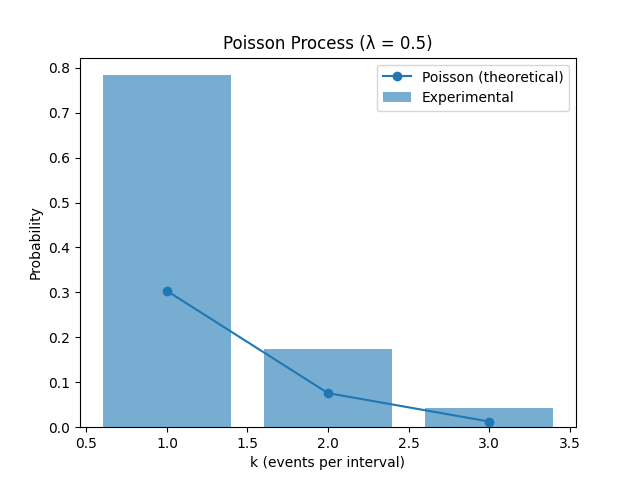
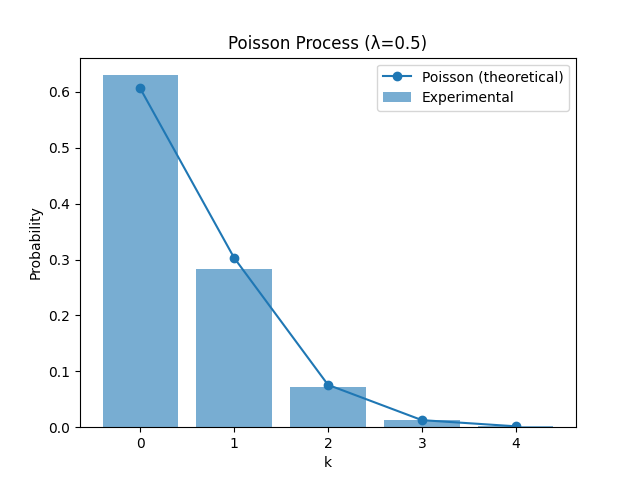
fix: Poisson_process_sim.py updates to display correctly

diff --git a/Lab1/Poisson_process_sim.py b/Lab1/Poisson_process_sim.py
@@ -8,28 +8,24 @@ import matplotlib.pyplot as plt
 
 # Funtion for counting events and build histograms out of the delta t generated in main
 def hist(arrival_times):
-    # Step 1: count events per unit interval
-    events_per_interval = {}
+    # último intervalo observado
+    max_interval = int(arrival_times[-1])
+
+    # contar eventos em TODOS os intervalos, incluindo vazios
+    events_per_interval = [0] * (max_interval + 1)
 
     for t in arrival_times:
-        interval = int(t)  # floor → which unit interval
+        interval = int(t)
+        events_per_interval[interval] += 1
 
-        if interval in events_per_interval:
-            events_per_interval[interval] += 1
-        else:
-            events_per_interval[interval] = 1
-
-    # Convert dict → list
-    counts = list(events_per_interval.values())
-
-    # Step 2: build histogram manually
+    # construir histograma manual
     histogram = {}
 
-    for k in counts:
-        if k in histogram:
-            histogram[k] += 1
+    for count in events_per_interval:
+        if count in histogram:
+            histogram[count] += 1
         else:
-            histogram[k] = 1
+            histogram[count] = 1
 
     return histogram
 
@@ -44,34 +40,29 @@ def save_histogram(histogram, lamb):
 
 # Function for plotting the Histograms generated
 def plot_histogram(histogram, lamb):
-    # Total number of intervals
     total_intervals = sum(histogram.values())
 
-    # Sort k values
-    k_values = sorted(histogram.keys())
+    k_values = range(0, max(histogram.keys()) + 1)
 
-    # Experimental probabilities
-    experimental_probs = [histogram[k] / total_intervals for k in k_values]
+    experimental_probs = [
+        histogram.get(k, 0) / total_intervals
+        for k in k_values
+    ]
 
-    # Theoretical Poisson probabilities
     theoretical_probs = [
         (lamb**k * math.exp(-lamb)) / math.factorial(k)
         for k in k_values
     ]
 
-    # Plot
-    plt.bar(k_values, experimental_probs, label="Experimental", alpha=0.6)
+    plt.bar(k_values, experimental_probs, alpha=0.6, label="Experimental")
     plt.plot(k_values, theoretical_probs, marker='o', label="Poisson (theoretical)")
 
-    plt.xlabel("k (events per interval)")
+    plt.xlabel("k")
     plt.ylabel("Probability")
-    plt.title(f"Poisson Process (λ = {lamb})")
+    plt.title(f"Poisson Process (λ={lamb})")
     plt.legend()
-
-    # unique filename
     plt.savefig(f"plots/poisson_lambda_{lamb}.png")
-
-    plt.clf()  # clear figure
+    plt.clf()
 
 def event_gen(N, lamb):
     # Listas
@@ -161,7 +152,7 @@ def main():
     os.makedirs("data", exist_ok=True)
 
     # Parâmetros
-    N = 500
+
     lambdas = [0.5, 1.0, 5.0, 10.0, 50.0]
 
     # Check argument
@@ -174,10 +165,12 @@ def main():
     if arg == "1":
         # 2.2 part
         for lamb in lambdas:
+            N = int(1000 * lamb)
             event_gen(N, lamb)
 
     elif arg == "2":
         # 2.3 part
+        N = 50000
         superposition_experiment(N)
 
     else:
